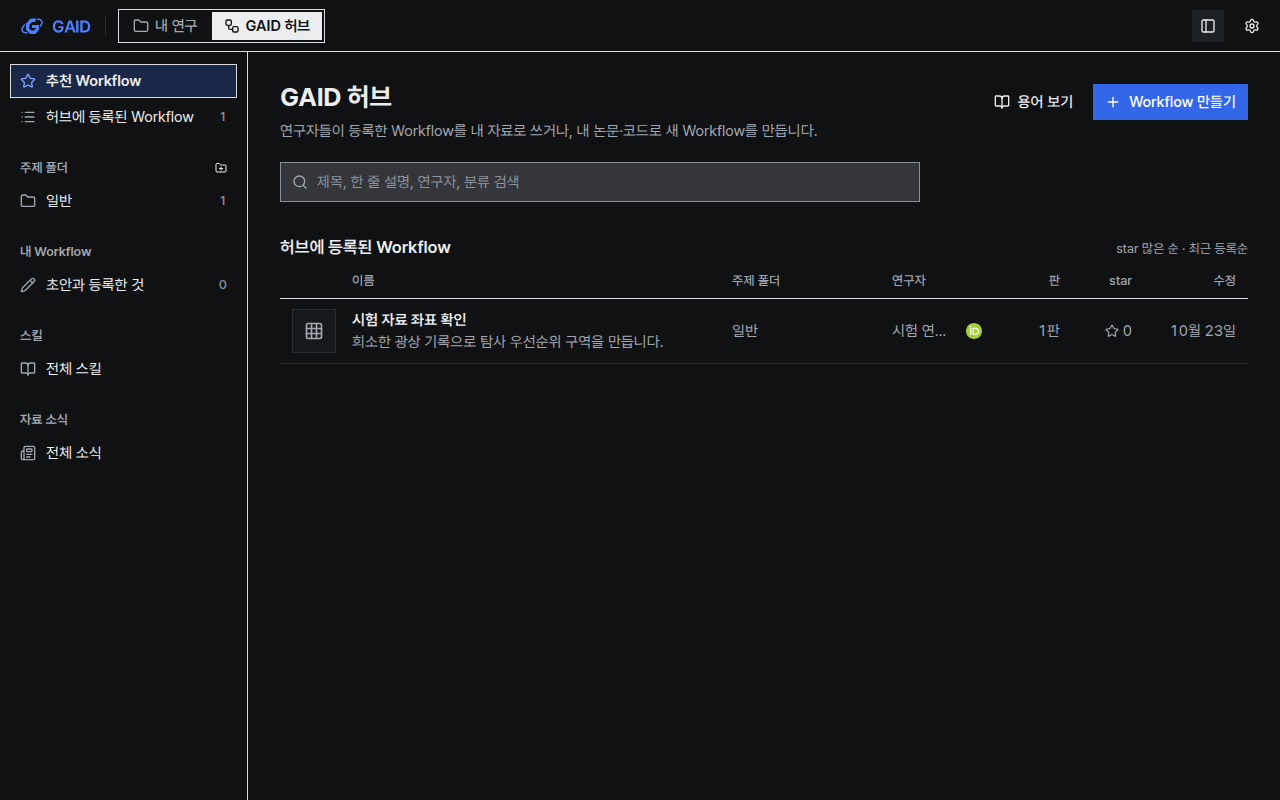
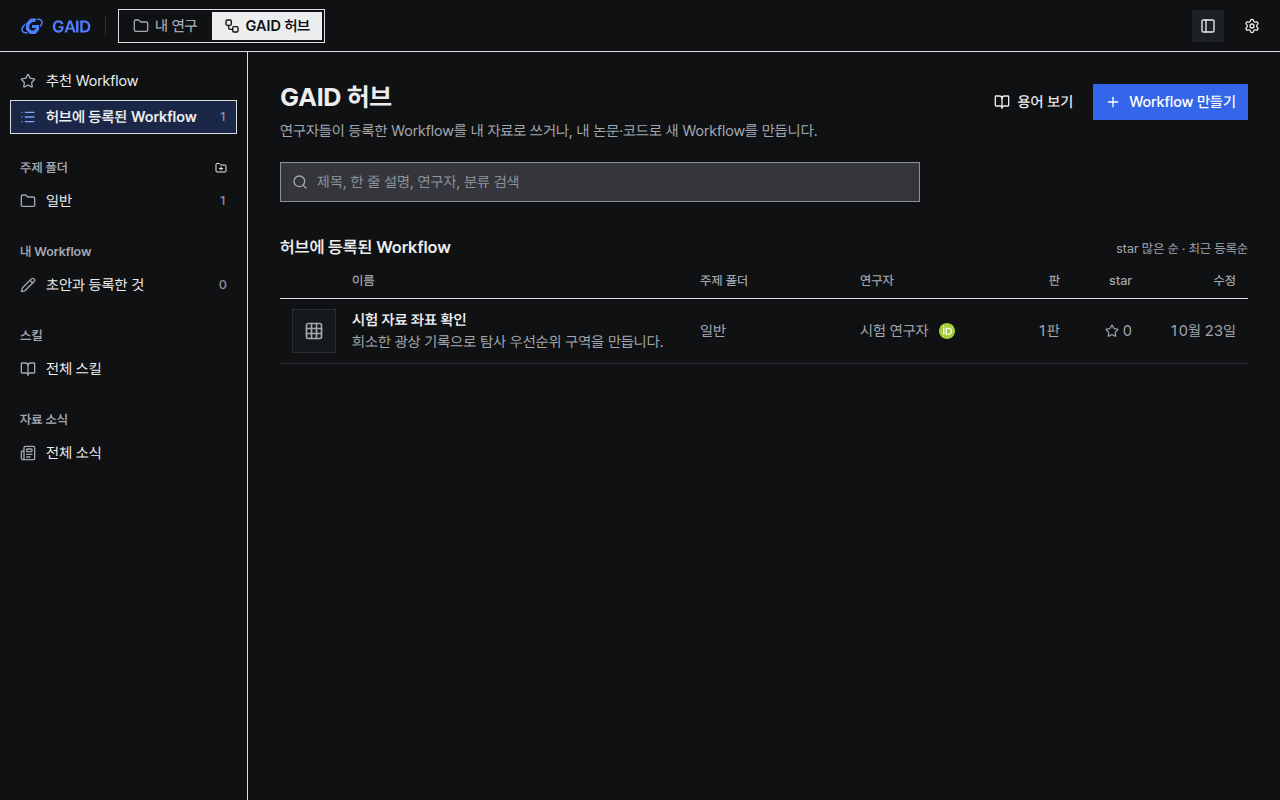
Record auth UI evidence and connected-hub deadlock finding

diff --git a/docs/tasks/gaid-orcid--authui.md b/docs/tasks/gaid-orcid--authui.md
@@ -1,7 +1,7 @@
 ---
 format: 1
 status: active
-updated: 2026-10-23T01:48:23Z
+updated: 2026-10-23T01:52:51Z
[1 lines of base64/hex data omitted]
 branch: task/gaid-orcid--authui
 target: task/gaid-orcid
@@ -87,11 +87,40 @@ with commands, anything not verified. Then `task finish`.
 - Sequential decisions: preserve the fixed server contracts; implement the shared iD renderer first, then card and tiny propagation seams, then behavior tests, own real-app smoke/screenshots, report and task finish. No independent package warrants a reader or child writer.
 - Owned interfaces: web/src/geo/orcid/, orcid locales; small shared-entry/library-screen propagation seams notified to parent. No backend edits.
 ## Next steps
-1. Run focused tests/typecheck, then real-app states and screenshot matrix, full required checks, report section and finish.
+1. Integrate the parent-owned nested-serial backend fix with the agreed task workflow, restart own QA, recheck typed local link/unlink under a connected hub and recapture stable ready/no-account/account frames. Finalize report/check receipts and task finish.
+Blocked: final live QA depends on the parent backend fix for link/unlink nested status() serialization.
 ## Failed approaches
+- Live local-iD DELETE after auth unlink hung; direct source reread confirmed a backend deadlock: link/unlink hold serial() while returning status(), which now enters serial() again for hub-ready reconciliation. Parent notified with concrete reproduction and asked to own the backend fix. Do not retry the hanging local mutations in the current app. Rebuild QA from parent fix and recapture ready/no-account/account screenshots (the later failed flow could leave a dialog visible).
 - QA job restart initially rejected a dirty source tree. Tracked disposition changes were saved, but the repeated rejection shared the premise that untracked screenshot files were allowed. Direct `git status --short` showed only untracked screenshots; save their draft evidence paths before starting the final snapshot.
 ## Notes and decisions
 (To close an existing ledger item when this top-level unit completes, add one literal `Closes: <slug>#<n>` line.)
+### Phase-2 UI delivery details
+
+Changed files: web/src/geo/orcid/{api.ts,id-display.tsx,orcid-card.tsx,orcid-card.test.tsx,import-dialog.tsx}; web/src/geo/hub/{shared-method.tsx,shared-entry.tsx,shared-browse.tsx,shared-method.test.tsx,shared-browse.test.tsx}; web/src/geo/hub-server/account.tsx; web/src/geo/library/library-screen.tsx; web/src/geo/locales/orcid/{ko,en}.json. Parent notified of the minimal shared-entry/library-screen propagation seams. No server/contracts/icon changes.
+
+UI rules followed: P2/P3/P5/P9 (existing library remains primary; honest typed/authenticated/test states); I2/I6/I7/I8/I12/I13 (roles and unchanged official pixels); L4/L7; B1/B2/B3/B5 (outline secondary auth actions preserve Add paper as primary); D2/D3 (explicitly requested auth-unlink confirmation with retained-data consequence); F5/R2 (plain errors, raw error collapsed); A1/A2/A3/A5 (native links/buttons, focus, status announcements); W1-W6; R1/R3; V1/V2/V3/V6. No new exceptions or baseline debt. Compact author links are separate siblings of the row action, not links nested in a button; 28px target and accessible full iD name. Both table/header author columns widened to 8rem.
+
+Strings below are all additions (before: absent); no existing ko/en string was changed.
+
+| String id | Korean | English |
+|---|---|---|
+| orcid.id.authenticatedLink | 인증된 ORCID iD: {url} | Authenticated ORCID iD: {url} |
+| orcid.id.link | ORCID iD: {url} | ORCID iD: {url} |
+| orcid.id.sandbox | ORCID 시험 환경 (시험용 기록) | ORCID sandbox (test records) |
+| orcid.auth.hint | ORCID에서 로그인한 뒤 GAID로 돌아오세요. | Sign in on ORCID, then return to GAID. |
+| orcid.auth.start.button | ORCID로 본인 확인 | Verify iD with ORCID |
+| orcid.auth.starting.button | ORCID 연결 중 | Opening ORCID |
+| orcid.auth.waiting | ORCID에서 본인 확인을 마치면 돌아와 연결을 확인하세요. | After verifying on ORCID, return here to check the link. |
+| orcid.auth.open.button | ORCID 로그인 열기 | Open ORCID sign-in |
+| orcid.auth.noAccount | ORCID 본인 확인에는 기관 GAID 허브 로그인이 필요합니다. | To verify your ORCID iD, log in to the institute GAID hub. |
+| orcid.auth.settings.button | 기관 허브 설정 열기 | Open institute hub settings |
+| orcid.auth.notConfigured | 허브에 ORCID 연결이 설정되지 않았습니다. 허브 관리자에게 문의하세요. | ORCID is not set up on this hub. Ask the hub administrator. |
+| orcid.auth.unreachable | 기관 GAID 허브에 연결하지 못했습니다. 연결 상태를 다시 읽으세요. | Could not reach the institute GAID hub. Read the connection status again. |
+| orcid.auth.unlink.button | 본인 확인 연결 해제 | Unlink verified iD |
+| orcid.auth.unlink.title | ORCID 본인 확인 연결 해제 | Unlink verified ORCID iD |
+| orcid.auth.unlink.hint | 허브 계정의 본인 확인 연결을 해제합니다. iD는 인증 안 된 상태로 남고, 가져온 논문과 내 논문 표시는 유지합니다. | Remove the verified link from your hub account. The iD stays as unauthenticated; imported works and own-work marks stay. |
+| orcid.error.auth | 본인 확인 연결을 처리하지 못했습니다. 연결 상태를 다시 읽고 시도하세요. | Could not process the verified link. Read the connection status again and retry. |
+
 ## Open items
 (user decisions, checks and accepted debt that outlive this unit, one line each:
 `- [<kind>] <question> — 가) <option> — 나) <option> — 권장: 가) <why> — 막힌 일: <x> — 조건: <y> — 근거: reports/<folder>#<section>`,
@@ -108,6 +137,8 @@ child unit, which adds sections to the parent's report. Dated snapshot; live sta
 - /home/seongin3/data/geoaidesk/runs/gaid-orcid--authui-20261023T014353.337542Z/receipt.json
   - disposition: {"evidence":["/home/seongin3/data/geoaidesk/work/gaid-orcid-auth-ui/playwright"],"reason":"QA app stopped to rebuild the final URL wrap and author-column layout snapshot; live state checks passed.","recorded":"2026-10-23T01:47:41Z","state":"cancelled"}
 - /home/seongin3/data/geoaidesk/runs/gaid-orcid--authui-20261023T014402.188704Z/receipt.json
+- /home/seongin3/data/geoaidesk/runs/gaid-orcid--authui-20261023T014832.992699Z/receipt.json
+  - disposition: {"evidence":["/home/seongin3/data/geoaidesk/work/gaid-orcid-auth-ui/status-after-auth-unlink.json"],"reason":"Own QA instance stopped after reproducing the nested serial/status local-link deadlock; parent owns the backend fix. Restart with the fixed snapshot before final matrix.","recorded":"2026-10-23T01:52:33Z","state":"cancelled"}
 <!-- /task:jobs -->
 <!-- task:cloud -->
 <!-- /task:cloud -->

diff --git a/reports/2026-10-22-gaid-orcid/index.md b/reports/2026-10-22-gaid-orcid/index.md
@@ -89,6 +89,16 @@ supersedes:
 | 허브 계정과 허브 Workflow에 iD 표시 | 2단계로 미룸(사용자 결정) | 5절 |
 | 자동 검사 통과 | 충족 | 4절 |
 
+### 3.1 본인 확인 연결 화면 (2단계, 2026-10-23)
+
+기관 GAID 허브에 로그인한 연구자는 서재에서 “ORCID로 본인 확인”을 눌러 ORCID 로그인 탭을 엽니다. 본인 확인을 마치고 돌아오면 GAID가 연결 상태를 다시 읽습니다. 탭이 차단된 경우에는 로그인 링크를 제공합니다.
+
+인증된 iD에는 ORCID의 인증용 아이콘을 붙이고 “인증 안 됨” 표시는 붙이지 않습니다. 시험 환경은 “ORCID 시험 환경 (시험용 기록)”으로 구분합니다. 허브 Workflow의 작성자 이름 옆과 기관 허브 계정에도 인증된 iD를 표시합니다. 직접 입력한 iD는 기존처럼 인증 안 된 상태로 표시합니다.
+
+본인 확인 연결을 해제하기 전에는 확인 창이 열립니다. 해제하면 허브 계정의 인증 연결이 없어지고, iD는 인증 안 된 상태로 남습니다. 가져온 논문과 내 논문 표시는 유지합니다. 허브에 로그인하지 않았거나 운영자가 ORCID 연결을 설정하지 않은 경우에는 그 상태와 다음 동작을 안내합니다.
+
+화면: [인증된 iD와 시험 환경 표시](figures/orcid2-linked-mapsheet-dark-1280.png), [Workflow 작성자 표시](figures/orcid2-author-instrument-light-1440.png), [기관 허브 계정 표시](figures/orcid2-account-instrument-light-1440.png).
+
 ## 4. 검증
 
 - 과학적 검증: 해당 없음. 이 기능은 서지 정보를 옮기며 연구 결과를 계산하지 않습니다. 가져온 서지 정보가 맞는지는 Crossref·OpenAlex·ORCID 기록에 기대며, GAID가 따로 검증하지 않습니다.
@@ -105,6 +115,14 @@ supersedes:
 - 화면 확인: 연결 전·연결 후·가져오기 창을 두 스타일(계측, 도폭), 두 테마, 두 크기(1440×900, 1280×800)에서 한국어로 찍은 24장을 UI 가이드 12절 기준으로 확인했습니다.
   - 확인한 항목: 실행 단추가 보이는지, 창 안에서만 스크롤되는지, 글자가 잘리지 않는지, ORCID 아이콘 색이 원래대로인지, 키보드 초점이 돌아오는지.
   - UI 가이드에서 벗어난 점이 하나 있습니다(규칙 G1). 논문 고르기 목록의 한 줄은 일반 목록보다 높습니다. 제목 전체, 연도·학술지, 상태를 한눈에 구별하도록 그렇게 했습니다.
+
+### 4.1 본인 확인 화면 확인 (2026-10-23)
+
+- 별도 시험 앱과 시험 허브에서 미로그인, ORCID 미설정, 본인 확인 준비, 시험용 인증 연결 상태를 확인했습니다. 설정으로 이동해 시험 계정의 초대를 수락하는 흐름도 확인했습니다.
+- 인증 연결 상태는 시험 허브의 데이터에 시험용 iD를 넣어 만들었습니다. 이 화면 확인은 실제 ORCID 로그인 성공을 입증하지 않습니다. 실제 로그인 확인은 상위 작업에서 따로 진행합니다.
+- 인증 연결 해제의 취소와 실행을 확인했습니다. 해제 뒤에도 같은 iD가 남고 “인증 안 됨”으로 바뀌었습니다. 허브 목록에서 ORCID 링크를 누르면 연구자 기록만 새 탭으로 열리고 Workflow는 열리지 않았습니다.
+- 자동 시험에서 로그인 탭을 먼저 열고 응답 뒤 이동하는 동작, 탭 차단 시 링크 제공, 실패 시 빈 탭 닫기, 돌아온 뒤 연결 상태 갱신, 인증 연결 해제와 기존 직접 입력 흐름을 확인했습니다.
+- 한국어 화면을 계측·도폭, 밝은·어두운 테마, 두 화면 크기로 확인했습니다. 공식 아이콘의 색을 바꾸지 않았으며, 긴 시험 환경 주소는 iD 전체가 같은 줄에 남도록 줄을 나눕니다.
 
 ## 5. 한계
 
@@ -151,6 +169,9 @@ supersedes:
 | 웹 조사 | Obsidian `웹 조사/geoaidesk/2026-10-22-i-am-building-an-orcid--e234c882d8.md` (Oracle Extra High, 2026-10-22) |
 | ORCID 공식 근거 | Public API 약관 https://info.orcid.org/public-client-terms-of-service/ · 사용 한도 https://info.orcid.org/ufaqs/what-are-the-api-limits/ · 되돌아올 주소 규칙 https://info.orcid.org/ufaqs/how-do-redirect-uris-work/ · iD 표시 규칙 https://info.orcid.org/documentation/integration-guide/orcid-id-display-guidelines/ · 시험 환경 https://info.orcid.org/documentation/integration-guide/sandbox-testing-server/ · OpenID 설정 https://orcid.org/.well-known/openid-configuration · KISTI 사례 https://info.orcid.org/pids-hand-in-hand-the-korea-doi-centers-orcid-auto-update/ |
 | 아이콘 출처 | ORCID 브랜드 자료실의 공식 아이콘, 수정하지 않음. `THIRD_PARTY_NOTICES.md` "ORCID iD icons" |
+| 2단계 화면 코드·문구·UI 규칙 | `docs/tasks/gaid-orcid--authui.md`의 Phase-2 UI delivery details와 문자열 표 |
+| 2단계 화면 사진 | `reports/2026-10-22-gaid-orcid/figures/orcid2-{no-account,ready,linked,author,browse,account}-{instrument,mapsheet}-{light,dark}-{1440,1280}.png` |
+| 2단계 화면 시험 | `web/src/geo/orcid/orcid-card.test.tsx`, `web/src/geo/hub/{shared-method,shared-browse}.test.tsx`; 별도 앱과 근거 `~/data/geoaidesk/work/gaid-orcid-auth-ui/` |
 | 하위 작업 기록 | `docs/tasks/gaid-orcid--ui.md` (바꾼 파일, 문구 id 한·영, UI 규칙 근거) |
 
 작성 시점: 2026-10-22, commit 87924824.
